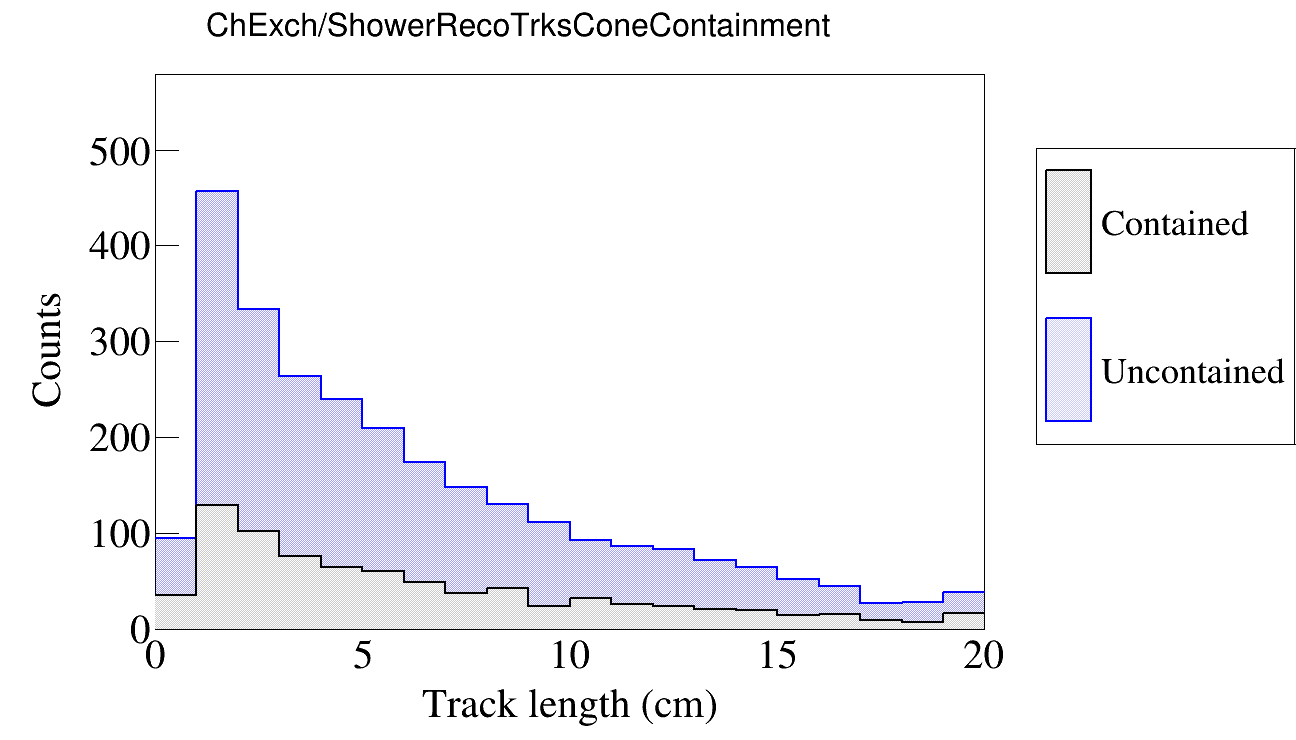
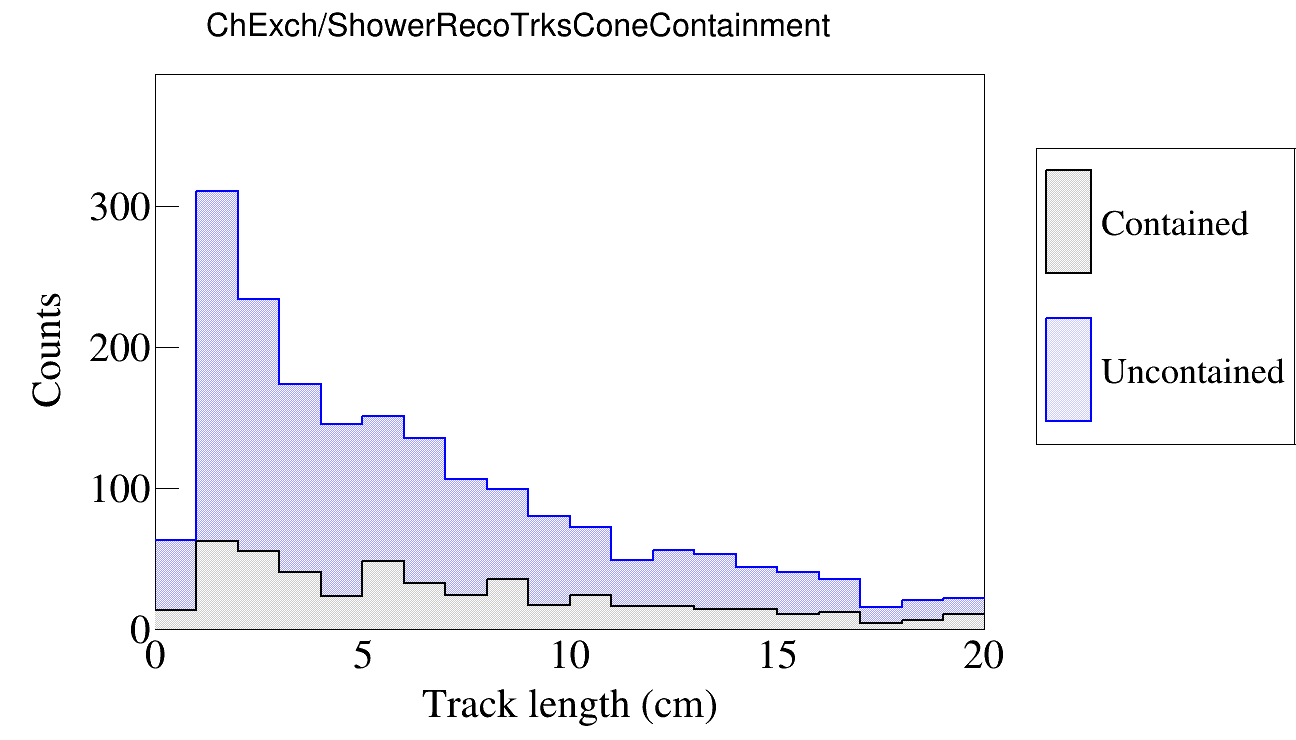
Study cylinder containment for ch exch

diff --git a/RecoAllAnalysis.cc b/RecoAllAnalysis.cc
@@ -676,15 +676,15 @@ void RecoAllAnalysis() {
     TH2D* hChExchShowerDaughtersRecoIncident = new TH2D(
         "hChExchShowerDaughtersRecoIncident",
         "hChExchShowerDaughtersRecoIncident;reco daughter_{x} - WC_{x};reco daughter_{y} - WC_{y}",
-        50, -15, 15,
-        50, -15, 15
+        30, -15, 15,
+        30, -15, 15
     );
 
     TH2D* hChExchShowerDaughtersExitAngles = new TH2D(
         "hChExchShowerDaughtersExitAngles",
         "hChExchShowerDaughtersExitAngles;Azimuth (x-y plane) [rad];Polar (away from z)",
-        50, -TMath::Pi(), TMath::Pi(),
-        50, 0, TMath::Pi()
+        20, -TMath::Pi(), TMath::Pi(),
+        20, 0, TMath::Pi()
     );
     TH1D* hChExchShowerDaughtersForwardMom = new TH1D("hChExchShowerDaughtersForwardMom", "hChExchShowerDaughtersForwardMom", 20, 0, 0.5);
 
@@ -693,6 +693,12 @@ void RecoAllAnalysis() {
     TH1D* hChExchShowerTrksConeUnContained     = new TH1D("hChExchShowerTrksConeUnContained", "hChExchShowerTrksConeUnContained", 20, 0, 20);
     TH1D* hChExchShowerRecoTrksConeContained   = new TH1D("hChExchShowerRecoTrksConeContained", "hChExchShowerRecoTrksConeContained", 20, 0, 20);
     TH1D* hChExchShowerRecoTrksConeUnContained = new TH1D("hChExchShowerRecoTrksConeUnContained", "hChExchShowerRecoTrksConeUnContained", 20, 0, 20);
+
+    // Cylinder
+    TH1D* hChExchShowerTrksCylinderContained       = new TH1D("hChExchShowerTrksCylinderContained", "hChExchShowerTrksCylinderContained", 20, 0, 20);
+    TH1D* hChExchShowerTrksCylinderUnContained     = new TH1D("hChExchShowerTrksCylinderUnContained", "hChExchShowerTrksCylinderUnContained", 20, 0, 20);
+    TH1D* hChExchShowerRecoTrksCylinderContained   = new TH1D("hChExchShowerRecoTrksCylinderContained", "hChExchShowerRecoTrksCylinderContained", 20, 0, 20);
+    TH1D* hChExchShowerRecoTrksCylinderUnContained = new TH1D("hChExchShowerRecoTrksCylinderUnContained", "hChExchShowerRecoTrksCylinderUnContained", 20, 0, 20);
 
     //////////////////////////////
     // Data for sliced cone cut //
@@ -984,21 +990,78 @@ void RecoAllAnalysis() {
             }
         }
 
-        // In this case, the trajectory object does not have information, so we 
-        // just use the start and end
-        if (truthPrimaryLocationX->size() == 0) {
-            truthPrimaryLocationX->push_back(primariesStartX->at(validPrimaryIdx));
-            truthPrimaryLocationY->push_back(primariesStartY->at(validPrimaryIdx));
-            truthPrimaryLocationZ->push_back(primariesStartZ->at(validPrimaryIdx));
+        /////////////////////////
+        // Construct cylinders //
+        /////////////////////////
 
-            truthPrimaryLocationX->push_back(primariesEndX->at(validPrimaryIdx));
-            truthPrimaryLocationY->push_back(primariesEndY->at(validPrimaryIdx));
-            truthPrimaryLocationZ->push_back(primariesEndZ->at(validPrimaryIdx));
+        // Get truth cylinder for cuts
+        std::vector<double>* truthCylinderLocationX = new std::vector<double>(*truthPrimaryLocationX);
+        std::vector<double>* truthCylinderLocationY = new std::vector<double>(*truthPrimaryLocationY);
+        std::vector<double>* truthCylinderLocationZ = new std::vector<double>(*truthPrimaryLocationZ);
+
+        if (truthCylinderLocationX->size() == 0) {
+            truthCylinderLocationX->push_back(primariesStartX->at(validPrimaryIdx));
+            truthCylinderLocationY->push_back(primariesStartY->at(validPrimaryIdx));
+            truthCylinderLocationZ->push_back(primariesStartZ->at(validPrimaryIdx));
+
+            truthCylinderLocationX->push_back(primariesEndX->at(validPrimaryIdx));
+            truthCylinderLocationY->push_back(primariesEndY->at(validPrimaryIdx));
+            truthCylinderLocationZ->push_back(primariesEndZ->at(validPrimaryIdx));
+        } 
+
+        // Get direction to end cylinder
+        int truthNumPoints = truthCylinderLocationX->size();
+        int truthNumTail   = std::min(10, truthNumPoints - 1);
+        std::vector<std::vector<double>> truth_points;
+        for (int j = truthNumPoints - truthNumTail; j < truthNumPoints; ++j) {
+            truth_points.push_back({
+                truthCylinderLocationX->at(j),
+                truthCylinderLocationY->at(j),
+                truthCylinderLocationZ->at(j)
+            });
         }
 
-        if (truthPrimaryLocationX->size() == 0) {
-            std::cout << "AAAA" << std::endl;
+        if (truthNumTail > 0) {
+            std::vector<double> avgDir = getAverageDir(truth_points);
+
+            // Extrapolate track to end
+            double scale = (maxZ - truth_points.back()[2]) / avgDir[2];
+            truthCylinderLocationX->push_back(truth_points.back()[0] + scale * avgDir[0]);
+            truthCylinderLocationY->push_back(truth_points.back()[1] + scale * avgDir[1]);
+            truthCylinderLocationZ->push_back(truth_points.back()[2] + scale * avgDir[2]);
         }
+
+        // Get reco cylinder for cuts 
+
+        // Copy WC2TPCLocations
+        std::vector<double>* wcX = new std::vector<double>(*WC2TPCLocationsX);
+        std::vector<double>* wcY = new std::vector<double>(*WC2TPCLocationsY);
+        std::vector<double>* wcZ = new std::vector<double>(*WC2TPCLocationsZ);
+
+        // Get direction to end cylinder
+        int wcNumPoints = wcX->size();
+        int wcNumTail   = std::min(10, wcNumPoints - 1);
+        std::vector<std::vector<double>> wc_points;
+        for (int j = wcNumPoints - wcNumTail; j < wcNumPoints; ++j) {
+            wc_points.push_back({
+                wcX->at(j),
+                wcY->at(j),
+                wcZ->at(j)
+            });
+        }
+        if (wcNumTail > 0) {
+            std::vector<double> avgDir = getAverageDir(wc_points);
+
+            // Extrapolate track to end
+            double scale = (maxZ - wc_points.back()[2]) / avgDir[2];
+            wcX->push_back(wc_points.back()[0] + scale * avgDir[0]);
+            wcY->push_back(wc_points.back()[1] + scale * avgDir[1]);
+            wcZ->push_back(wc_points.back()[2] + scale * avgDir[2]);
+        }
+
+        //////////////////////////////
+        // Study truth interactions //
+        //////////////////////////////
 
         // Study elastic and inelastic scattering events
         if (backgroundType == 12) {
@@ -1071,7 +1134,7 @@ void RecoAllAnalysis() {
                     chExchShowerStart->at(iTruthTrk)[1] - primariesStartY->at(validPrimaryIdx)
                 );
 
-                // check if track is contained inside sliced cone
+                // Check if track is contained inside sliced cone
                 double coneDirX = primariesEndX->at(validPrimaryIdx) - primariesStartX->at(validPrimaryIdx);
                 double coneDirY = primariesEndY->at(validPrimaryIdx) - primariesStartY->at(validPrimaryIdx);
                 double coneDirZ = primariesEndZ->at(validPrimaryIdx) - primariesStartZ->at(validPrimaryIdx);
@@ -1090,6 +1153,18 @@ void RecoAllAnalysis() {
                     SLICED_CONE_HEIGHT, SLICED_CONE_MIN_RADIUS, SLICED_CONE_MAX_RADIUS
                 );
 
+                // Check if track is contained inside cylinder
+                bool startInCylinder = IsPointInsideTrackCylinder(
+                    truthCylinderLocationX, truthCylinderLocationY, truthCylinderLocationZ,
+                    chExchShowerStart->at(iTruthTrk)[0], chExchShowerStart->at(iTruthTrk)[1], chExchShowerStart->at(iTruthTrk)[2],
+                    CYLINDER_RADIUS
+                );
+                bool endInCylinder = IsPointInsideTrackCylinder(
+                    truthCylinderLocationX, truthCylinderLocationY, truthCylinderLocationZ,
+                    chExchShowerEnd->at(iTruthTrk)[0], chExchShowerEnd->at(iTruthTrk)[1], chExchShowerEnd->at(iTruthTrk)[2],
+                    CYLINDER_RADIUS
+                );
+
                 // We do not care about photons because they won't give us anything to reconstruct themselves
                 if (chExchShowerPDGs->at(iTruthTrk) != 22) {
                     hChExchShowerTruthTrkLengths->Fill(chExchShowerLengths->at(iTruthTrk));
@@ -1098,6 +1173,12 @@ void RecoAllAnalysis() {
                         hChExchShowerTrksConeContained->Fill(chExchShowerLengths->at(iTruthTrk));
                     } else {
                         hChExchShowerTrksConeUnContained->Fill(chExchShowerLengths->at(iTruthTrk));
+                    }
+
+                    if (startInCylinder && endInCylinder) {
+                        hChExchShowerTrksCylinderContained->Fill(chExchShowerLengths->at(iTruthTrk));
+                    } else {
+                        hChExchShowerTrksCylinderUnContained->Fill(chExchShowerLengths->at(iTruthTrk));
                     }
                 }
             }
@@ -1131,26 +1212,6 @@ void RecoAllAnalysis() {
                             recoBeginX->at(iRecoTrk) - WC2TPCPrimaryBeginX,
                             recoBeginY->at(iRecoTrk) - WC2TPCPrimaryBeginY
                         );
-
-                        bool startsInCone = IsPointInsideSlicedCone(
-                            recoBeginX->at(iRecoTrk), recoBeginY->at(iRecoTrk), recoBeginZ->at(iRecoTrk),
-                            WC2TPCPrimaryEndX, WC2TPCPrimaryEndY, WC2TPCPrimaryEndZ,
-                            WC2TPCPrimaryEndX - WC2TPCPrimaryBeginX, WC2TPCPrimaryEndY - WC2TPCPrimaryBeginY, WC2TPCPrimaryEndZ - WC2TPCPrimaryBeginZ,
-                            SLICED_CONE_HEIGHT, SLICED_CONE_MIN_RADIUS, SLICED_CONE_MAX_RADIUS
-                        );
-
-                        bool endsInCone = IsPointInsideSlicedCone(
-                            recoEndX->at(iRecoTrk), recoEndY->at(iRecoTrk), recoEndZ->at(iRecoTrk),
-                            WC2TPCPrimaryEndX, WC2TPCPrimaryEndY, WC2TPCPrimaryEndZ,
-                            WC2TPCPrimaryEndX - WC2TPCPrimaryBeginX, WC2TPCPrimaryEndY - WC2TPCPrimaryBeginY, WC2TPCPrimaryEndZ - WC2TPCPrimaryBeginZ,
-                            SLICED_CONE_HEIGHT, SLICED_CONE_MIN_RADIUS, SLICED_CONE_MAX_RADIUS
-                        );
-
-                        if (startsInCone && endsInCone) {
-                            hChExchShowerRecoTrksConeContained->Fill(trk_length);
-                        } else {
-                            hChExchShowerRecoTrksConeUnContained->Fill(trk_length);
-                        }
                     }
                 }
             }
@@ -1165,35 +1226,13 @@ void RecoAllAnalysis() {
                     electronShowerStart->at(iTruthTrk)[1] - primariesStartY->at(validPrimaryIdx)
                 );
 
-                // Get direction to end cylinder
-                int numPoints = truthPrimaryLocationX->size();
-                int numTail   = std::min(10, numPoints - 1);
-                std::vector<std::vector<double>> points;
-                for (int j = numPoints - numTail; j < numPoints; ++j) {
-                    points.push_back({
-                        truthPrimaryLocationX->at(j),
-                        truthPrimaryLocationY->at(j),
-                        truthPrimaryLocationZ->at(j)
-                    });
-                }
-
-                if (numTail > 0) {
-                    std::vector<double> avgDir = getAverageDir(points);
-
-                    // Extrapolate track to end
-                    double scale = (maxZ - points.back()[2]) / avgDir[2];
-                    truthPrimaryLocationX->push_back(points.back()[0] + scale * avgDir[0]);
-                    truthPrimaryLocationY->push_back(points.back()[1] + scale * avgDir[1]);
-                    truthPrimaryLocationZ->push_back(points.back()[2] + scale * avgDir[2]);
-                }
-
                 bool startInCylinder = IsPointInsideTrackCylinder(
-                    truthPrimaryLocationX, truthPrimaryLocationY, truthPrimaryLocationZ,
+                    truthCylinderLocationX, truthCylinderLocationY, truthCylinderLocationZ,
                     electronShowerStart->at(iTruthTrk)[0], electronShowerStart->at(iTruthTrk)[1], electronShowerStart->at(iTruthTrk)[2],
                     CYLINDER_RADIUS
                 );
                 bool endInCylinder = IsPointInsideTrackCylinder(
-                    truthPrimaryLocationX, truthPrimaryLocationY, truthPrimaryLocationZ,
+                    truthCylinderLocationX, truthCylinderLocationY, truthCylinderLocationZ,
                     electronShowerEnd->at(iTruthTrk)[0], electronShowerEnd->at(iTruthTrk)[1], electronShowerEnd->at(iTruthTrk)[2],
                     CYLINDER_RADIUS
                 );
@@ -1260,6 +1299,10 @@ void RecoAllAnalysis() {
             delete hDEDXProfile;
         }
 
+        /////////////////////
+        // Start selection //
+        /////////////////////
+
         // If no track matched to wire-chamber, skip
         if (WC2TPCtrkID == -99999) continue;
 
@@ -1275,32 +1318,7 @@ void RecoAllAnalysis() {
                     pow(recoEndZ->at(trk_idx) - recoBeginZ->at(trk_idx), 2)
                 );
 
-                // Copy WC2TPCLocations
-                std::vector<double>* wcX = new std::vector<double>(*WC2TPCLocationsX);
-                std::vector<double>* wcY = new std::vector<double>(*WC2TPCLocationsY);
-                std::vector<double>* wcZ = new std::vector<double>(*WC2TPCLocationsZ);
-
-                // Get direction to end cylinder
-                int numPoints = wcX->size();
-                int numTail   = std::min(10, numPoints - 1);
-                std::vector<std::vector<double>> points;
-                for (int j = numPoints - numTail; j < numPoints; ++j) {
-                    points.push_back({
-                        wcX->at(j),
-                        wcY->at(j),
-                        wcZ->at(j)
-                    });
-                }
-                if (numTail > 0) {
-                    std::vector<double> avgDir = getAverageDir(points);
-
-                    // Extrapolate track to end
-                    double scale = (maxZ - points.back()[2]) / avgDir[2];
-                    wcX->push_back(points.back()[0] + scale * avgDir[0]);
-                    wcY->push_back(points.back()[1] + scale * avgDir[1]);
-                    wcZ->push_back(points.back()[2] + scale * avgDir[2]);
-                }
-
+                // Check if ends are inside cylinder
                 bool startInCylinder = IsPointInsideTrackCylinder(
                     wcX, wcY, wcZ,
                     recoBeginX->at(trk_idx), recoBeginY->at(trk_idx), recoBeginZ->at(trk_idx),
@@ -1311,6 +1329,8 @@ void RecoAllAnalysis() {
                     recoEndX->at(trk_idx), recoEndY->at(trk_idx), recoEndZ->at(trk_idx),
                     CYLINDER_RADIUS
                 );
+
+                // Check cylinder
                 if (startInCylinder && endInCylinder) {
                     numTracksInCylinder++;
 
@@ -1330,12 +1350,17 @@ void RecoAllAnalysis() {
                             hTrkLengthsInCylinderPionScattering->Fill(trackLength);
                         } else if (backgroundType == 7) {
                             hTrkLengthsInCylinderPionChExch->Fill(trackLength);
+                            hChExchShowerRecoTrksCylinderContained->Fill(trackLength);
                         } else {
                             hTrkLengthsInCylinderPionOther->Fill(trackLength);
                         }
                     }
 
                     if (trackLength < CYLINDER_SMALL_TRACK) numSmallTracksInCylinder++;
+                } else {
+                    if (backgroundType == 7) {
+                        hChExchShowerRecoTrksCylinderUnContained->Fill(trackLength);
+                    }
                 }
             }
             hNumTracksInCylinder->Fill(numTracksInCylinder);
@@ -1736,6 +1761,7 @@ void RecoAllAnalysis() {
             if (startsInCone && endsInCone) {
                 numTracksInSlicedCone++;
                 if (trackLength < 5) numSmallTracksInSlicedCone++;
+                if (backgroundType == 7) hChExchShowerRecoTrksConeContained->Fill(trackLength);
 
                 if (backgroundType == 0) {
                     hSlicedConeTracksPiAbs0p->Fill(trackLength);
@@ -1752,6 +1778,8 @@ void RecoAllAnalysis() {
                 } else {
                     hSlicedConeTracksPiOther->Fill(trackLength);
                 }
+            } else {
+                if (backgroundType == 7) hChExchShowerRecoTrksConeUnContained->Fill(trackLength);
             }
         }
 
@@ -2951,6 +2979,8 @@ void RecoAllAnalysis() {
         {hChExchShowerDaughtersForwardMom},
         {hChExchShowerTrksConeContained, hChExchShowerTrksConeUnContained},
         {hChExchShowerRecoTrksConeContained, hChExchShowerRecoTrksConeUnContained},
+        {hChExchShowerTrksCylinderContained, hChExchShowerTrksCylinderUnContained},
+        {hChExchShowerRecoTrksCylinderContained, hChExchShowerRecoTrksCylinderUnContained},
 
         // Cylinder cuts
         {hTrkLengthsInCylinder},
@@ -3051,6 +3081,8 @@ void RecoAllAnalysis() {
         // Charge exchange events
         {"Reco", "Truth"},
         {"#pi^{0} daughters"},
+        {"Contained", "Uncontained"},
+        {"Contained", "Uncontained"},
         {"Contained", "Uncontained"},
         {"Contained", "Uncontained"},
 
@@ -3155,6 +3187,8 @@ void RecoAllAnalysis() {
         "ChExch/NeutralPionDaughtersMom",
         "ChExch/ShowerTrueTrksConeContainment",
         "ChExch/ShowerRecoTrksConeContainment",
+        "ChExch/ShowerTrueTrksCylinderContainment",
+        "ChExch/ShowerRecoTrksCylinderContainment",
 
         // Cylinder cuts
         "Cylinder/TrackLengths",
@@ -3255,6 +3289,8 @@ void RecoAllAnalysis() {
         // Charge exchange events
         "Track length (cm)",
         "Forward momentum [GeV/c]",
+        "Track length (cm)",
+        "Track length (cm)",
         "Track length (cm)",
         "Track length (cm)",
 
@@ -3359,6 +3395,8 @@ void RecoAllAnalysis() {
         "Counts",
         "Counts",
         "Counts",
+        "Counts",
+        "Counts",
 
         // Cylinder cuts
         "Counts",
@@ -3459,6 +3497,8 @@ void RecoAllAnalysis() {
         // Charge exchange events
         false,
         false,
+        true,
+        true,
         true,
         true,
 
